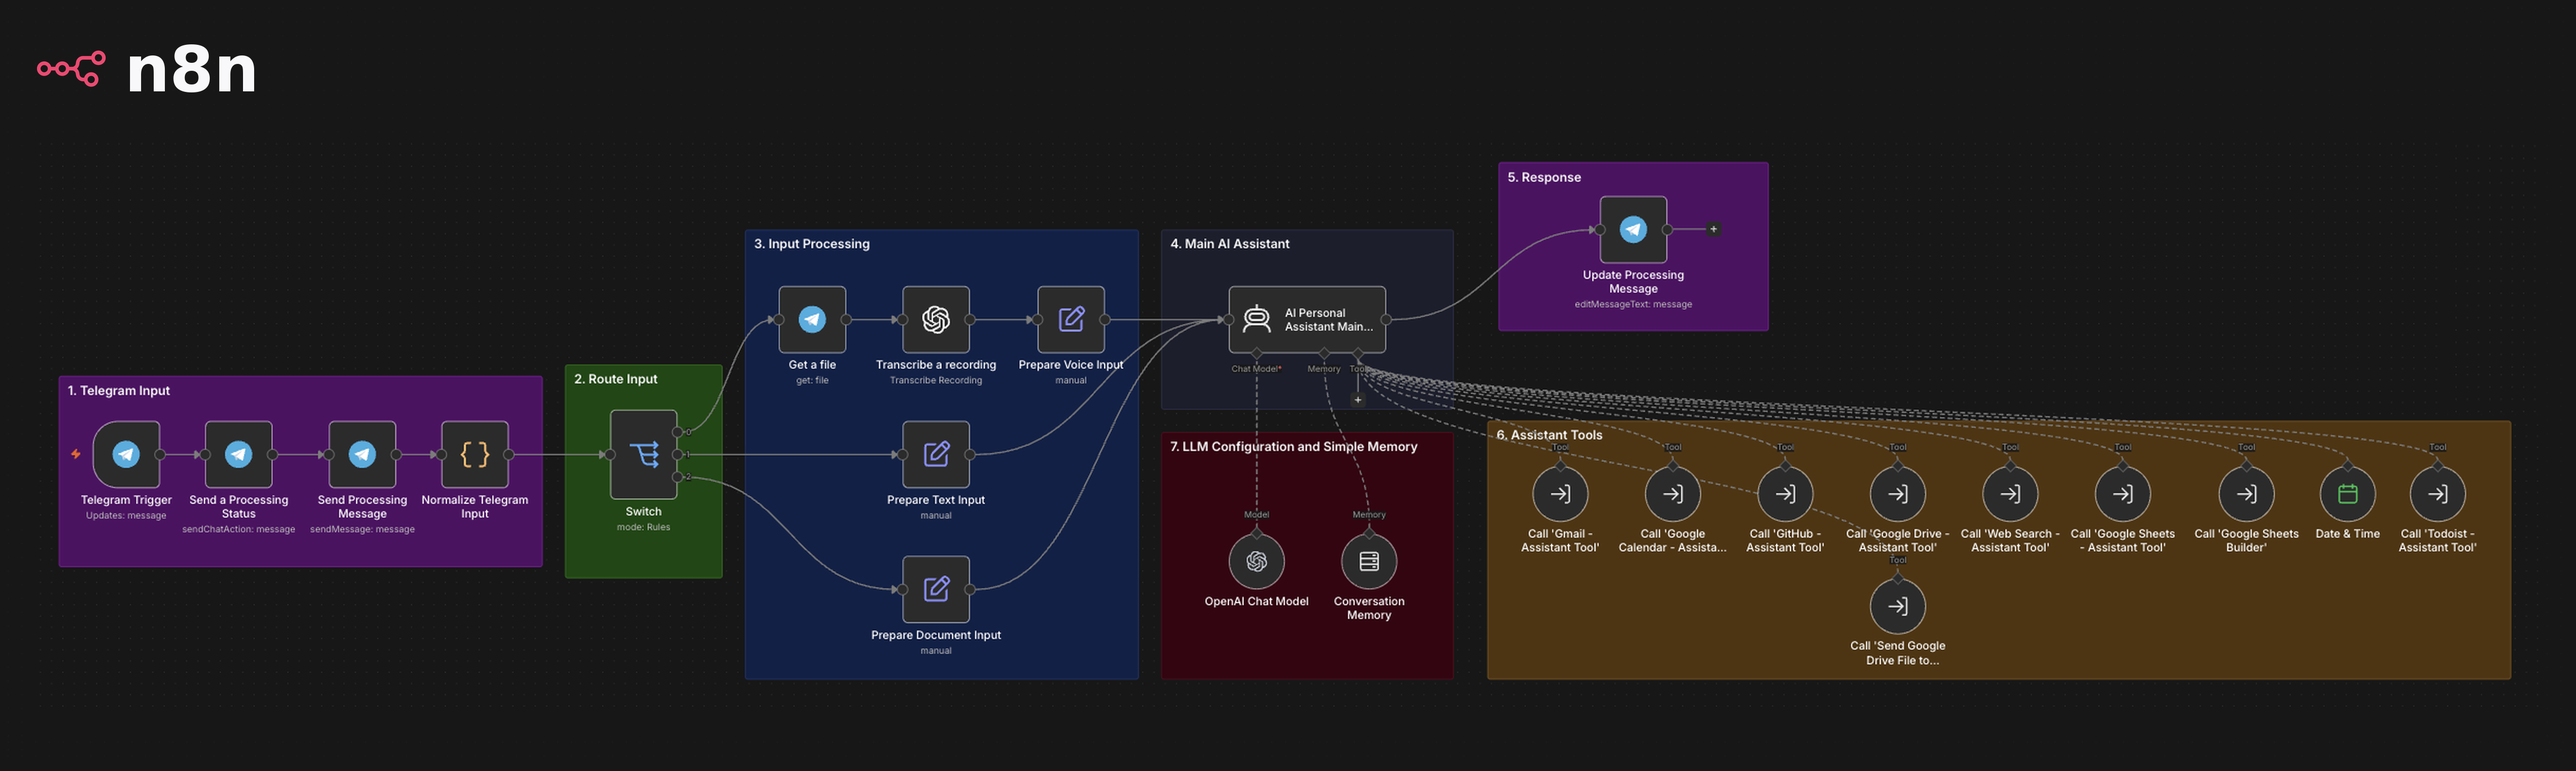
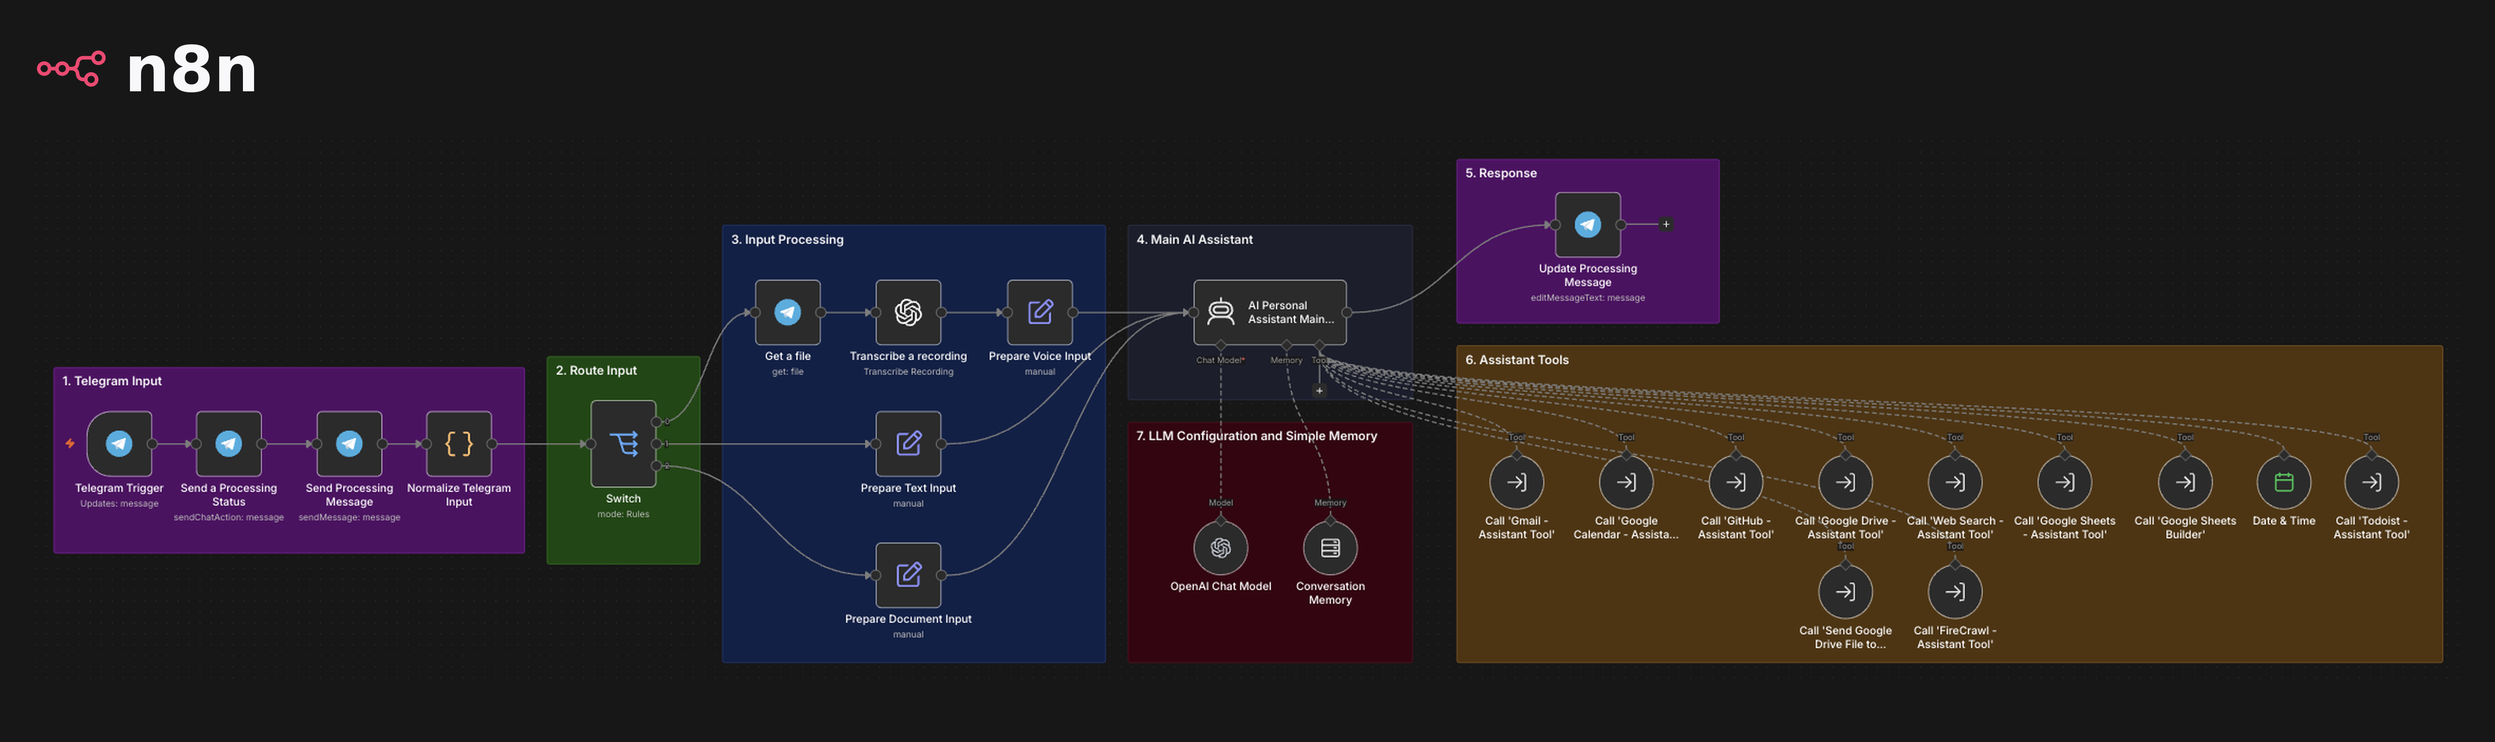
docs(readme): update README with Firecrawl tool

diff --git a/README.md b/README.md
@@ -109,6 +109,7 @@ Main Agent
    ├── GitHub Assistant
    ├── Todoist Assistant
    ├── Web Search
+   ├── Firecrawl
    └── Date & Time
 ```
 
@@ -137,6 +138,7 @@ The main assistant delegates specialized tasks to dedicated workflows:
 - **GitHub Assistant** — Inspect repositories, source files, README files, issues, and pull requests.
 - **Todoist Assistant** — Create, search, update, complete, and delete tasks, as well as manage projects.
 - **Web Search Assistant** — Retrieve current or external information from the web.
+- **Firecrawl Assistant** — Open, inspect, and extract page-level information from specific webpages.
 - **Date & Time Tool** — Resolve current and relative dates and times.
 
 A dedicated **Google Drive → Telegram** workflow is also used to send selected Drive files back to the current Telegram chat.
@@ -315,6 +317,7 @@ The model choices are intentionally kept relatively lightweight because the syst
 | Task management     | Todoist              |
 | Code repositories   | GitHub               |
 | Web research        | Web Search workflow  |
+| Web page extraction | Firecrawl            |
 | Date/time           | n8n Date & Time tool |
 | Version control     | Git / GitHub         |
 
@@ -368,7 +371,8 @@ A typical import sequence is:
 8. Google Sheets Builder
 9. Todoist Assistant Tool
 10. Web Search Assistant Tool
-11. Main Telegram Assistant Interface
+11. Firecrawl Assistant Tool
+12. Main Telegram Assistant Interface
 ```
 
 After importing:
@@ -418,6 +422,9 @@ personal_ai_command_center/
 │   │
 │   ├── todoist/
 │   │   └── todoist_assistant_tool.json
+|   |
+│   ├── firecrawl/
+│   │   └── firecrawl_assistant_tool.json
 │   │
 │   └── web_search/
 │       └── web_search_assistant_tool.json
